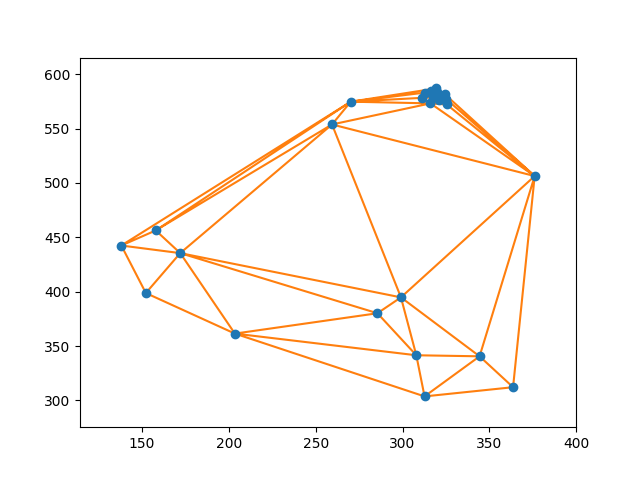
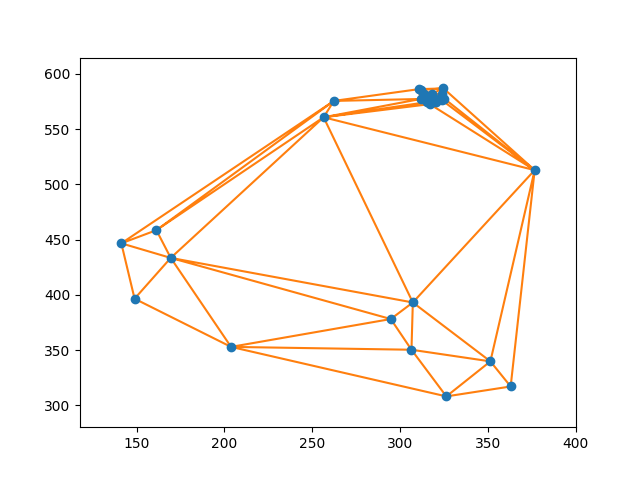
Update

diff --git a/force_model_try.py b/force_model_try.py
@@ -80,10 +80,13 @@ class Wrecset:
                         self.df.iat[i, 8], self.df.iat[i, 9], self.df.iat[i, 10], self.df.iat[i, 11], self.df.iat[i, 12],\
                         i)  
             self.wrec_list.append(wrec)
-            i += 1 
+            i += 1
+        self.x_max = 0
+        self.x_min = 0
+        self.y_max = 0
+        self.y_min = 0
 
     def move(self):
-
         div_value = 10000
         for wrec in self.wrec_list:
             wrec.bfr_p_c = wrec.p_c
@@ -94,32 +97,39 @@ class Wrecset:
             wrec.p_tr = wrec.p_tr + wrec.f_all / div_value #　とりあえず10,000
             wrec.p_bl = wrec.p_bl + wrec.f_all / div_value #　とりあえず10,000
             wrec.p_br = wrec.p_br + wrec.f_all / div_value #　とりあえず10,000
-        
+            
+            print("wrec.f_all : " + str(wrec.f_all))
+            #print("bfr_p_c : " + str(wrec.bfr_p_c))
+            #print("aft_p_c : " + str(wrec.aft_p_c))
+            #print("**************")
         # 移動終了
+
+
+
         # ここでfaを計算しておく。
         for wrec in self.wrec_list:
             # エッジを超えたかを計算して、faを設定していく。
             # ①エッジの直線の方程式 (x1-x2) * (y-y1) - (y1-y2)*(x-x1) = 0　◀ 式（1）
-            wrec.fa = np.zeros(2)
+            wrec.fa = np.zeros(2) #◀一回リセット
             bfr_p_c = wrec.bfr_p_c
             aft_p_c = wrec.aft_p_c
 
             for mesh in wrec.belonged_mesh: #自分の属する全メッシュに対して
-                print(mesh)
-                print(wrec.index_num)
+                #print(mesh)
+                #print(wrec.index_num)
                 tmp_lst = []
                 for index in mesh:
                     if index != wrec.index_num:
                         tmp_lst.append(index)
                     
                 other_wrecs = np.array(tmp_lst)
-                print("other_wrecs")
-                print(other_wrecs)
-                print("____")
+                #print("other_wrecs")
+                #print(other_wrecs)
+                #print("____")
 
-                print(bfr_p_c)
-                print(wrec.fs)
-                print(aft_p_c)
+                #print(bfr_p_c)
+                #print(wrec.fs)
+                #print(aft_p_c)
                 p1 = self.wrec_list[other_wrecs[0]].p_c
                 p2 = self.wrec_list[other_wrecs[1]].p_c
                 s = (p1[0]- p2[0]) * (bfr_p_c[1]- p1[1]) - (p1[1]- p2[1]) * (bfr_p_c[0] - p1[0]) 
@@ -138,11 +148,11 @@ class Wrecset:
                 A = np.array( [ [bfr_p_c[1] - aft_p_c[1]  ,   aft_p_c[0] - bfr_p_c[0]], \
                                 [p1[1]      - p2[1]       ,   p2[0]      - p1[0]     ]  \
                                ])
-                print(A)
+                #print(A)
                 B = np.array( [ bfr_p_c[1] * aft_p_c[0] - bfr_p_c[0] *  aft_p_c[1],\
                                 p1[1]      * p2[0]      -  p1[0]     *       p2[1]  \
                               ])
-                print(B)
+                #print(B)
                 crossing_point = np.linalg.solve(A, B)
                 fa_direction = crossing_point - aft_p_c
 
@@ -206,7 +216,15 @@ while i < 2000:
         wrec.calculate_fs()
         wrec.calculate_fr()
         wrec.calculate_all_f()
-        wrec_set.move() #ここで、移動後次回のfaは計算ずみ。
+        '''
+        print("*************************")
+        print(wrec.belonged_mesh)
+        print("fs : " + str(wrec.fs))
+        print("fr : " + str(wrec.fr))
+        print("fa : " + str(wrec.fa))
+        print("f_all : " + str(wrec.f_all))
+        '''
+    wrec_set.move() #ここで、移動後次回のfaは計算ずみ。
     i += 1
 
 # word_positions_in_pic は wrec_set.wrec_list のINDEX順番と同じ。
@@ -219,48 +237,59 @@ for i, wrec in zip( range(len(wrec_set.wrec_list)), wrec_set.wrec_list):
 
 print(word_positions_in_pic)
 
+wrec_set.x_max = np.max(word_positions_in_pic, axis = 0)[0]
+wrec_set.y_max = np.max(word_positions_in_pic, axis = 0)[1]
+wrec_set.x_min = np.min(word_positions_in_pic, axis = 0)[0]
+wrec_set.y_min = np.min(word_positions_in_pic, axis = 0)[1]
+
+
+
 #ワードクラウド描画
-X_SIZE=3000
-Y_SIZE=3000
+X_SIZE = int(wrec_set.x_max - wrec_set.x_min + 400)
+Y_SIZE = int(wrec_set.y_max - wrec_set.y_min + 400)
+
+
+adjust_x = wrec_set.x_min - 200
+adjust_y = wrec_set.y_min - 200
 
 campus = Image.new('RGB', (X_SIZE, Y_SIZE), (128, 128, 128))
 draw = ImageDraw.Draw(campus)
 
 for wrec in wrec_set.wrec_list:    
     if wrec.color == "RED":
-        draw.rectangle((wrec.p_tl[0], \
-                        wrec.p_tl[1], \
-                        wrec.p_br[0], \
-                        wrec.p_br[1]), \
+        draw.rectangle((wrec.p_tl[0] - adjust_x, \
+                        wrec.p_tl[1] - adjust_y, \
+                        wrec.p_br[0] - adjust_x, \
+                        wrec.p_br[1] - adjust_y), \
                         fill=(240, 0, 0), outline=(255, 255, 255))
         print(wrec.p_tl[0])
 
     if wrec.color == "BLUE":
-        draw.rectangle((wrec.p_tl[0], \
-                        wrec.p_tl[1], \
-                        wrec.p_br[0], \
-                        wrec.p_br[1]), \
+        draw.rectangle((wrec.p_tl[0] - adjust_x, \
+                        wrec.p_tl[1] - adjust_y, \
+                        wrec.p_br[0] - adjust_x, \
+                        wrec.p_br[1] - adjust_y), \
                         fill=(0, 0, 240), outline=(255, 255, 255))
 
     if wrec.color == "PURPLE":
-        draw.rectangle((wrec.p_tl[0], \
-                        wrec.p_tl[1], \
-                        wrec.p_br[0], \
-                        wrec.p_br[1]), \
+        draw.rectangle((wrec.p_tl[0] - adjust_x, \
+                        wrec.p_tl[1] - adjust_y, \
+                        wrec.p_br[0] - adjust_x, \
+                        wrec.p_br[1] - adjust_y), \
                         fill=(150, 0, 150), outline=(255, 255, 255))
         
     if wrec.color == "NO":
-        draw.rectangle((wrec.p_tl[0], \
-                        wrec.p_tl[1], \
-                        wrec.p_br[0], \
-                        wrec.p_br[1]), \
+        draw.rectangle((wrec.p_tl[0] - adjust_x, \
+                        wrec.p_tl[1] - adjust_y, \
+                        wrec.p_br[0] - adjust_x, \
+                        wrec.p_br[1] - adjust_y), \
                         fill=(50, 50, 50), outline=(255, 255, 255))
     
     ttfontname = "./logotypejp_mp_m_1.1.ttf"
     fontsize = wrec.size * 6
     font = ImageFont.truetype(ttfontname, fontsize)
-    text_position_x = wrec.p_tl[0]
-    text_position_y = wrec.p_tl[1]
+    text_position_x = wrec.p_tl[0] - adjust_x
+    text_position_y = wrec.p_tl[1] - adjust_y
     textRGB = (20, 20, 20)
     text = wrec.word
     draw.text((text_position_x, text_position_y), text, fill=textRGB, font=font)
@@ -273,17 +302,7 @@ fig_2.savefig('./Images/scipy_matplotlib_delaunay_after.png')
 
 
 
-
 '''
-for wrec in wrec_set.wrec_list:
-    print(wrec.conneced_wrec_dict)
-'''
-
-
-'''
-x = word_positions_in_pic[:, 0]
-y = word_positions_in_pic[:, 1]
-
 fig = plt.figure()
 ax = fig.add_subplot(1,1,1)
 ax.scatter(x,y)

diff --git a/main.py b/main.py
@@ -1,7 +1,7 @@
 from myModule import *
 
 #!!!!!!!!!!!  ここでインターバル数を決める。最低でも3以上にすること　！！     ！！！！！！!!!!!!!!!!!!!!!!!!!!!!!!!
-TSET_INTERVAL_NUM = 30
+TSET_INTERVAL_NUM = 45
 # 出現回数が閾値以降のものを残す時に、何個wordを残す(抽出する)かを決める値。 !!!!!!!!!!!!!!!!!!!!!!!!!
 WORDS_NUM_IN_A_CLOUD = 30
 # ワードクラウドとして描画する t_elementのINDEX
